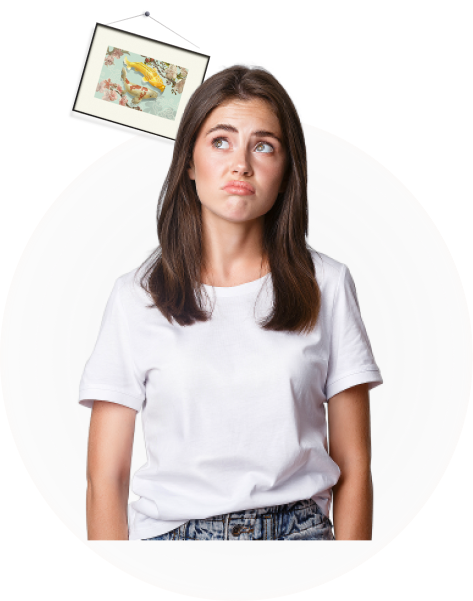
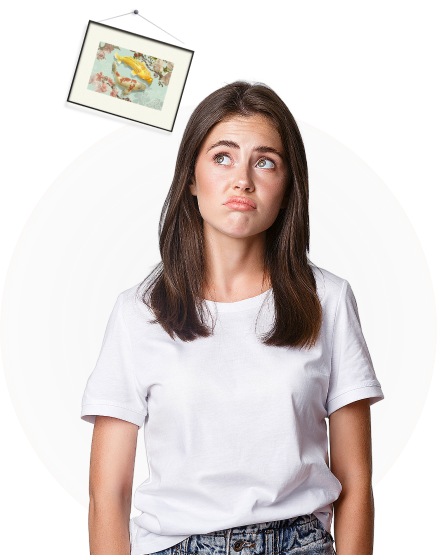
fixed css

diff --git a/components/VS.jsx b/components/VS.jsx
@@ -10,7 +10,7 @@ import img2 from "../public/assets/images/girl-2.png";
 const VS = () => {
   const { t } = useTranslation();
   return (
-    <section className="max-w-4xl m-auto flex flex-col items-center">
+    <section className="max-w-6xl m-auto flex flex-col items-center mb-16">
       <div className="flex items-center font-bold">
         <div>{t("services:vs_text_1")}</div>
         <div className="mx-4">
@@ -19,28 +19,25 @@ const VS = () => {
         <div>{t("services:vs_text_2")}</div>
       </div>
 
-      <div className="relative min-h-[710px] flex flex-col items-center justify-end">
-        <div className="grid grid-cols-3 lg:gap-6 absolute top-0 left-0">
+      <div className="grid">
+        <div className="grid grid-cols-3 lg:gap-6">
           <Image src={img1} alt="" width={300} height={300} />
           <div></div>
           <Image src={img2} alt="" width={300} height={300} />
         </div>
 
-        <div className="grid grid-cols-3 lg:gap-6 z-10">
+        <div className="grid grid-cols-3 lg:gap-6 z-10 text-[10px] lg:text-[24px]">
           <BlockList
             name={"vsList_1"}
             className={
-              "bg-gradient-to-r from-[#D8D8D8] to-[#979899] lg:font-bold lg:p-8 py-3"
+              "bg-gradient-to-r from-[#D8D8D8] to-[#979899] p-4 space-y-6 lg:space-y-12"
             }
           />
-          <BlockList
-            className={"bg-transparent lg:font-bold lg:py-4"}
-            name={"vsList_2"}
-          />
+          <BlockList name={"vsList_2"} className={"py-3"} />
           <BlockList
             name={"vsList_3"}
             className={
-              "bg-gradient-to-r from-[#4B8765] to-[#E5EEE9] lg:font-bold lg:p-8 py-3"
+              "bg-gradient-to-r from-[#4B8765] to-[#E5EEE9] p-4 space-y-6 lg:space-y-12"
             }
           />
         </div>

diff --git a/pages/services/index.jsx b/pages/services/index.jsx
@@ -96,15 +96,15 @@ const index = ({ props, subscription }) => {
               {t("services:text_7")}
             </Heading>
             <div className="grid lg:grid-cols-3 lg:gap-10 gap-0">
-              <div className="flex flex-col items-center justify-center space-y-10 shadow-xl p-8 shadow-[var(--text-green)] lg:my-10 rounded-lg">
+              <div className="flex flex-col items-center justify-center space-y-10 shadow-lg p-8 shadow-[var(--text-green)] lg:my-10 rounded-lg">
                 <Heading tag={"span"}>{t("services:dop.1")}</Heading>
                 <Image src={broker} alt="" />
               </div>
-              <div className="flex flex-col items-center justify-center space-y-10 shadow-xl p-8 shadow-[var(--text-green)] lg:my-10 my-4 rounded-lg">
+              <div className="flex flex-col items-center justify-center space-y-10 shadow-lg p-8 shadow-[var(--text-green)] lg:my-10 my-4 rounded-lg">
                 <Heading tag={"span"}>{t("services:dop.2")}</Heading>
                 <Image src={nalogoviy} alt="" />
               </div>
-              <div className="flex flex-col items-center justify-center space-y-10 shadow-xl p-8 shadow-[var(--text-green)] lg:my-10 rounded-lg">
+              <div className="flex flex-col items-center justify-center space-y-10 shadow-lg p-8 shadow-[var(--text-green)] lg:my-10 rounded-lg">
                 <Heading tag={"span"}>{t("services:dop.3")}</Heading>
                 <Image src={translator} alt="" />
               </div>

diff --git a/components/BlockList.jsx b/components/BlockList.jsx
@@ -1,4 +1,3 @@
-import Image from "next/image";
 import { useTranslation } from "next-i18next";
 
 const list = ["1", "2", "3", "4", "5", "6", "7"];
@@ -6,14 +5,14 @@ const list = ["1", "2", "3", "4", "5", "6", "7"];
 const BlockList = ({ className, name = "" }) => {
   const { t } = useTranslation();
   return (
-    <div className="grid grid-rows-1">
-      <div className={`rounded-xl ${className}`}>
-        <ul className="flex flex-col items-center lg:space-y-8 space-y-4 text-center">
-          {list.map((item) => (
-            <li key={item}>{t(`services:${name}.${item}`)}</li>
-          ))}
-        </ul>
-      </div>
+    <div className="overflow-hidden">
+      <ul
+        className={`flex flex-col justify-between items-center text-center rounded-xl h-full ${className}`}
+      >
+        {list.map((item) => (
+          <li key={item}>{t(`services:${name}.${item}`)}</li>
+        ))}
+      </ul>
     </div>
   );
 };
